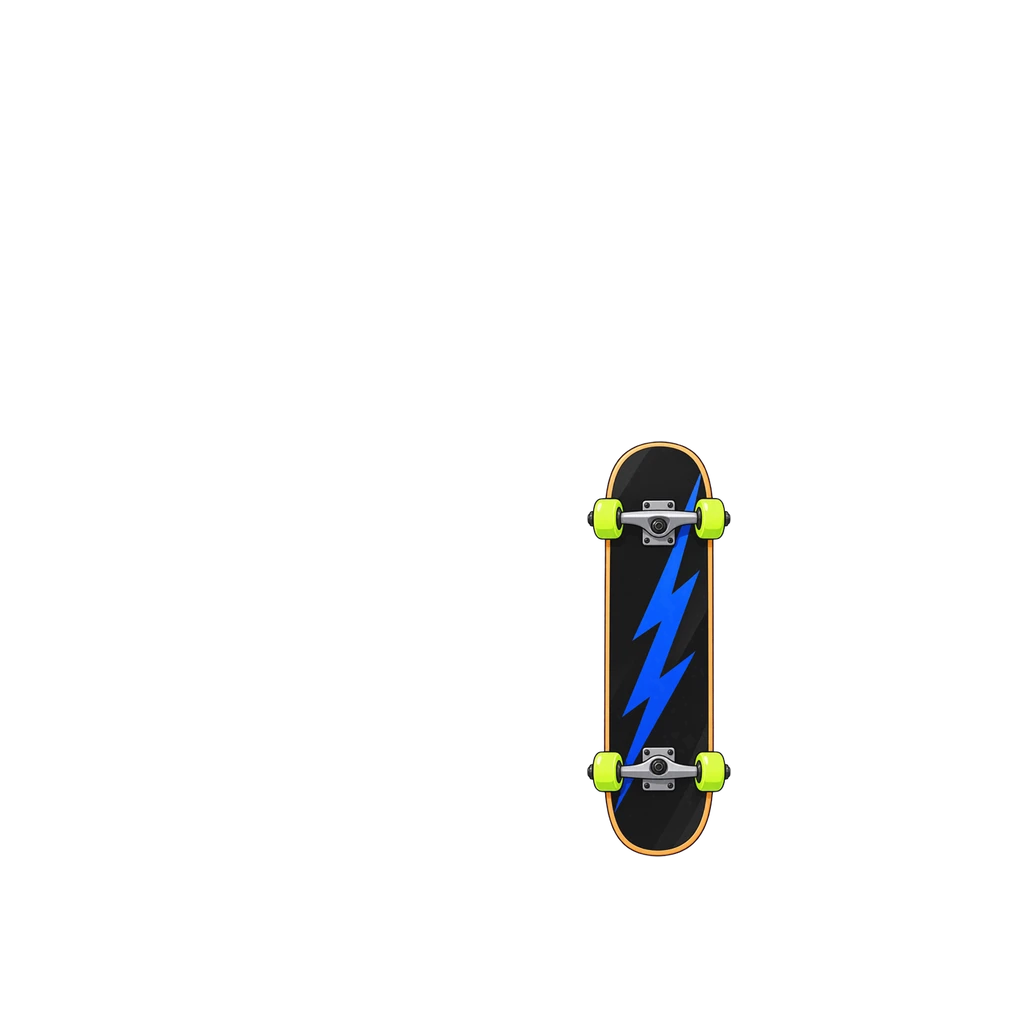
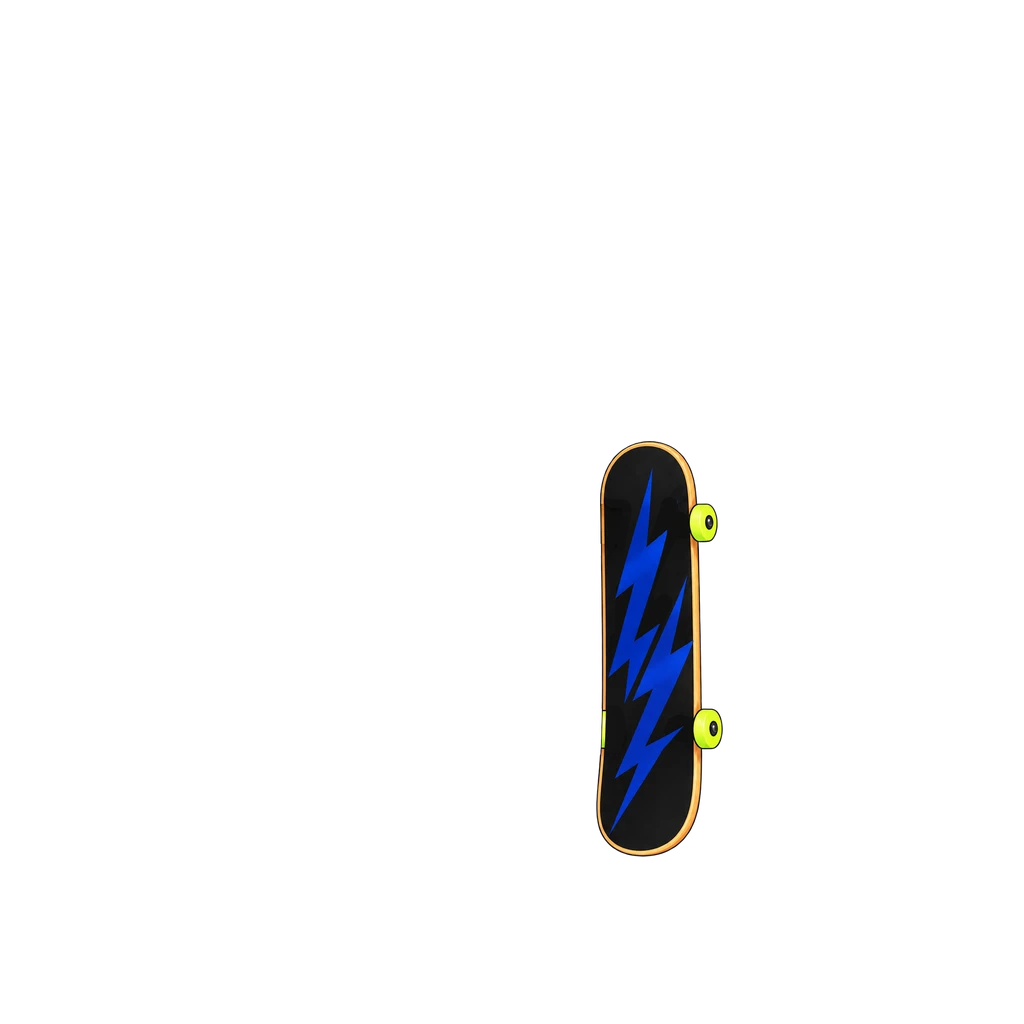
남아 번개 보드 원화 교체 (#993)
새 원화를 예전 보드와 같은 자리·같은 높이에 맞춰 덮어쓰고, 상점 그림·art-src 원본도 새 것으로 바꿨다.

Claude-Session: https://claude.ai/code/session_018maNuYqDfFyRSe9uKpZhPR

Changed region(s): [[0.5625, 0.4062, 0.7188, 0.8438]]

diff --git a/src/data/avatarEquipment.js b/src/data/avatarEquipment.js
@@ -478,8 +478,9 @@ export const AVATAR_CATALOG = [
      사용자가 준 배치 그림(번개 스케이터 차림 전신 1024×1536)대로 오른쪽 다리 옆에 세워 둔다 — 그 그림의 얼굴을
      기본 머리에 템플릿 매칭(일치 0.966, 배율 0.665)해 보드 자리(데크 y689~1314·가운데 x691)를 옮겨 왔다.
      배율 0.6269, 원점 (587,441). 탑재 상자 (587,441,731,857).
-     손 장비 슬롯이지만 z 12 로 **가장 뒤**(배경 10 바로 위 — 등 장비 15·몸 20보다 뒤)에 그린다. */
-  { id: "hand_board_boy", slot: "hand",  label: "번개 보드",   emoji: "🛹", price:DECOR_PRICE.rare, rarity: "rare", theme: "common", forGender: "boy", z: 12, img: "assets/avatar/hand/lightning-board-boy.webp", thumb: "assets/avatar/thumb/hand_board_boy.webp" },
+     손 장비 슬롯이지만 z 12 로 **가장 뒤**(배경 10 바로 위 — 등 장비 15·몸 20보다 뒤)에 그린다.
+     [2026-10-11] 원화 교체(280×915, 측면 바퀴가 보이는 판) — 같은 자리·같은 높이(데크 y441~857)에 맞춰 배율 0.4546·원점 (596,441). 탑재 상자 (596,441,723,857). img ?v=2. */
+  { id: "hand_board_boy", slot: "hand",  label: "번개 보드",   emoji: "🛹", price:DECOR_PRICE.rare, rarity: "rare", theme: "common", forGender: "boy", z: 12, img: "assets/avatar/hand/lightning-board-boy.webp?v=2", thumb: "assets/avatar/thumb/hand_board_boy.webp?v=2" },
   /* 바다 산소통 [2026-10-05] — 남아. 산소통(사용자 원화 196×433)은 등 뒤 맨 뒤(z 12), 어깨끈 두 줄(283×172)은 맨 앞(zFront 48).
      사용자 배치 참고 그림을 얼굴 매칭(0.847, 물안경이 눈을 가려 코~입으로)으로 아바타 좌표에 올려 위치를 땄다.
      산소통 배율 0.524·원점 (599,361) (참고 그림 쪽이 조금 홀쭉해서 높이·오른쪽 끝 기준), 끈 매칭 0.967 배율 0.700×0.658·원점 (420,431).

diff --git a/art-src/README.md b/art-src/README.md
@@ -624,7 +624,7 @@ bbox로 여백만 잘라내고 배포본은 높이 480px로 축소했다(전부 
 | captain-hat-boy-src.webp | **꼬마선장 모자 원화 남아 — 모자+얼굴 한 장 (사용자 원화 2026-10-05)** — 파란 선장 모자(흰 띠·닻 배지). hidesHead 로 기본 머리를 대신한다. 얼굴 템플릿 매칭(일치 0.907)으로 배율 0.684·원점 (336,70), y404 아래 자름. 탑재 상자 (336,70,694,394). **[2026-10-05 조정]** 3% 크게(0.7045, 원점 (331,60)) · img ?v=2. 아래로 5·왼쪽 1(원점 (330,65)) · img ?v=3. 왼쪽 1·아래로 2 더(원점 (329,67)) · img ?v=4. 상점 그림은 원화를 세로 160px 로 | avatar/hat/captain-hat-boy.webp · thumb/hat_captain_boy.webp |
 | explorer-pack-boy-src.webp · explorer-pack-straps-boy-src.webp | **해적 가방 원화 남아(처음 이름 탐험 가방) (사용자 원화 2026-10-05)** — 가방 몸통 290×373(가죽 배낭+지도 두루마리)·어깨끈 263×198, 투명 배경. 가방은 몸 뒤(z15) 배율 0.70·원점 (505,350), 끈은 옷 위(zFront 48) 배율 0.76·가운데 x516·위끝 y414. 가방 상자 (505,350,708,611) · 끈 상자 (416,414,616,564). **[2026-10-05 조정]** 왼쪽 끈 →30·오른쪽 끈 ←30, 가방 위로 20·오른쪽 10(원점 (515,330)), 끈 상자 (446,414,586,564) · 가방 상자 (515,330,718,591) · ?v=2. 끈만 다시: 처음 자리에서 버클 아래 바깥 끝선을 옆구리 선에 맞춰 왼쪽 끈 →15·오른쪽 끈 ←17, 끈 상자 (431,414,599,564) · imgFront ?v=3. 끈 윗선을 어깨선에 맞춰 왼쪽 위로 7·오른쪽 위로 6, 끈 상자 (431,407,599,557) · imgFront ?v=4. 가방 몸통 아래로 10·왼쪽 7(원점 (508,340)), 가방 상자 (508,340,711,601) · img ?v=3. 끈 윗선을 꼬마 해적단 옷 어깨선에 맞춰 양쪽 위로 4, 끈 상자 (431,403,599,553) · imgFront ?v=5. 해적 옷 수정 뒤 다시 맞춤: 왼쪽 끈 ←3·↓3, 오른쪽 끈 →1·↓4, 끈 상자 (428,406,600,556) · imgFront ?v=6. 상점 그림은 가방 원화를 세로 160px 로 | avatar/back/explorer-pack-boy.webp · explorer-pack-straps-boy.webp · thumb/back_explorer.webp |
 | pirate-boy-worn-src.webp | **꼬마 해적단 남아 탑재 조정 기록 (2026-10-05)** — 원본 행이 없어 조정만 남긴다. 사용자 조정: 남아 그림만 아래로 3, 탑재 상자 (356,395,673,766) → (356,398,673,769) · img ?v=2. 이어서 2% 크게(원화 배율 0.59329→0.60516, 깃 위 가운데 고정)·아래로 1, 원화 원점 (263,-37), 상자 (353,399,676,777) · img ?v=3. 이어서 왼쪽 1, 원점 (262,-37), 상자 (352,399,675,777) · img ?v=4. 여아 그림(imgGirl)은 그대로 | avatar/top/pirate-outfit-boy.webp |
-| lightning-board-boy-src.webp | **번개 보드 원화 남아 (사용자 원화 2026-10-05)** — 검정 데크·파란 번개·형광 바퀴 229×663, 투명 배경. 사용자 배치 그림의 얼굴을 기본 머리에 맞춰(일치 0.966·배율 0.665) 보드 자리를 옮겨 옴: 배율 0.6269·원점 (587,441), 상자 (587,441,731,857). 손 장비 슬롯, z 12(가장 뒤). 상점 그림은 원화를 세로 160px 로 | avatar/hand/lightning-board-boy.webp · thumb/hand_board_boy.webp |
+| lightning-board-boy-src.webp | **번개 보드 원화 남아 (사용자 원화 2026-10-11, 교체)** — 검정 데크·파란 번개 두 줄·형광 바퀴(옆면) 280×915, 투명 배경. 예전 판과 같은 자리·높이(데크 y441~857)에 맞춰 배율 0.4546·원점 (596,441), z 12 가장 뒤. 탑재 상자 (596,441,723,857) (img ?v=2). 상점 그림은 원화를 세로 160px 로 | avatar/hand/lightning-board-boy.webp · thumb/hand_board_boy.webp |
 | space-helmet-boy-src.webp | **우주 헬멧 원화 남아 — 헬멧+얼굴 한 장 (사용자 원화 2026-10-05)** — 흰 우주 헬멧(파란 테·귀 장치). hidesHead 로 기본 머리를 대신한다. 얼굴 템플릿 매칭(일치 0.923)으로 배율 0.684·원점 (330,85), 아래 테두리가 목 위끝을 덮어 자르지 않음. 탑재 상자 (330,80,697,406). 상점 그림은 원화를 세로 160px 로 | avatar/hat/space-helmet-boy.webp · thumb/hat_helmet_boy.webp |
 | thumb-src-hat_safari_boy.webp | **상점 목록 그림 남아 정글 모자 (hat_safari_boy, 사용자 원화 2026-10-05)** — 상점 카드에만 보이는 모자 아이콘(쓰는 그림과 별개). 361×234 투명 배경, 세로 160px 로 줄여 탑재(thumb ?v=2) | avatar/thumb/hat_safari_boy.webp |
 | thumb-src-hat_cap_boy.webp | **상점 목록 그림 남아 번개 캡모자 (hat_cap_boy, 사용자 원화 2026-10-05)** — 상점 카드에만 보이는 모자 아이콘(쓰는 그림과 별개). 361×254 투명 배경, 세로 160px 로 줄여 탑재(thumb ?v=2) | avatar/thumb/hat_cap_boy.webp |
